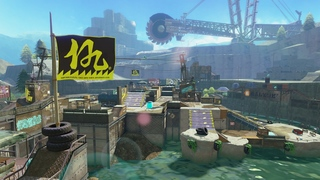
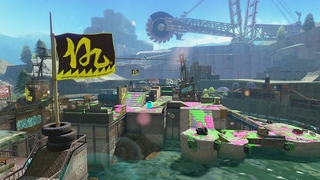
ショッツル鉱山画像入れ替え

diff --git a/config/version.php b/config/version.php
@@ -1,2 +1,2 @@
 <?php
-return '1.19.0';
+return '1.19.1';
